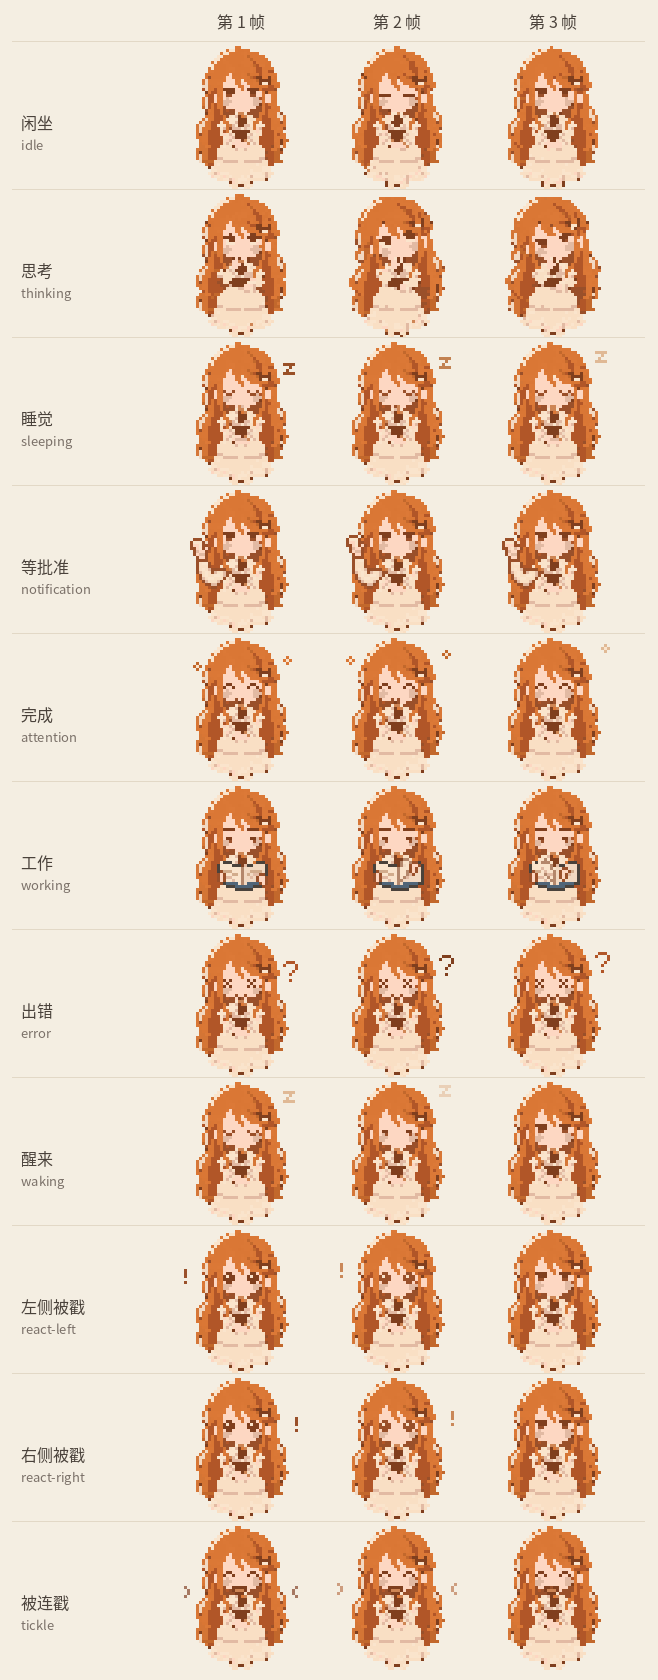
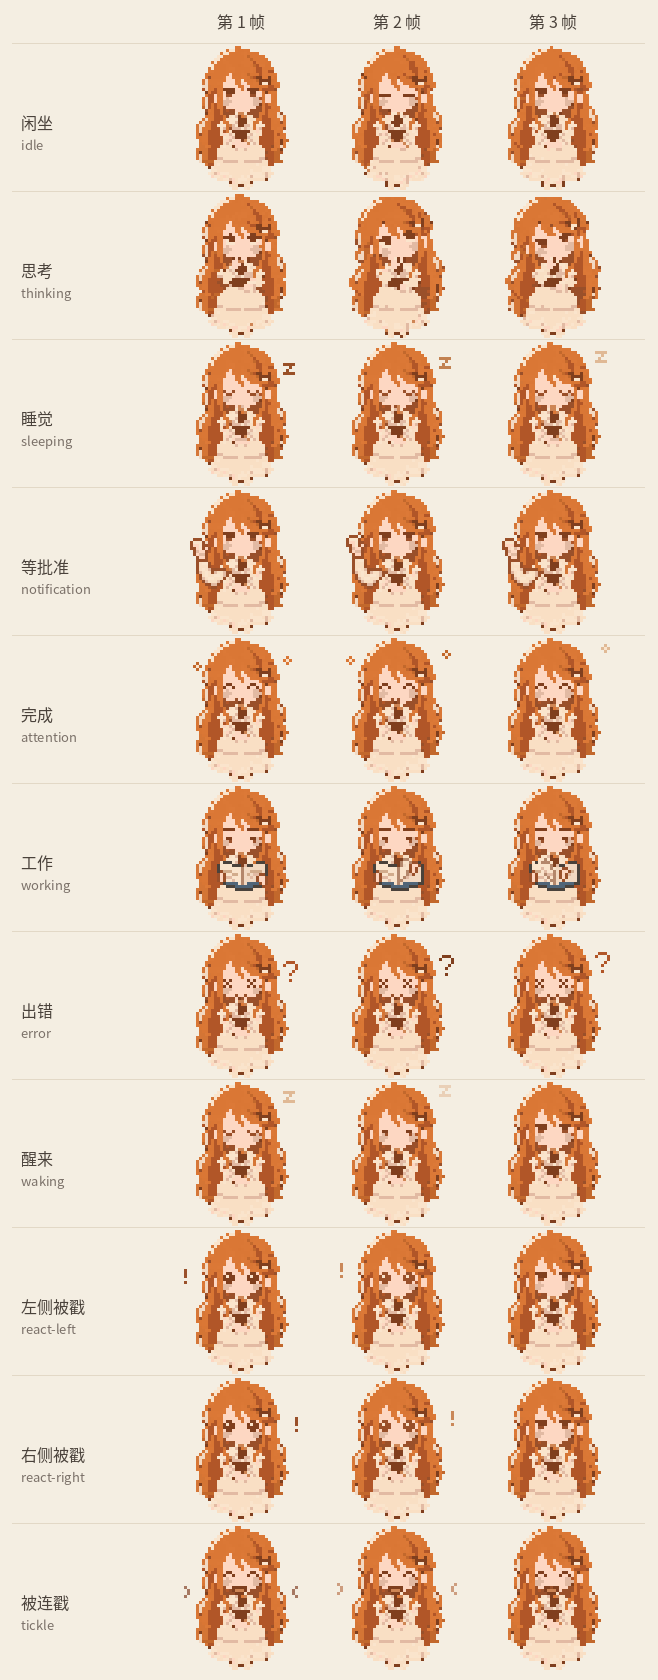
Verify the full Xiaoke preview and record approval status

diff --git a/design/incoming/pet/xiaoke/README.md b/design/incoming/pet/xiaoke/README.md
@@ -29,6 +29,19 @@
 
 `working/` 有三帧，分别停留 780／200／260 ms，循环播放。以 `idle/01.png` 为底，瞳孔往下移一格，一手捧着摊开的书，另一手把右页翻向左边。第三帧用两条细线表示纸页。[逐帧对照](working-preview.png) · [循环 GIF](working.gif)
 
-## 出错预览（待确认）
+## 出错（通过）
 
 `error/` 有三帧，分别停留 200／300／560 ms，播放一次。以 `idle/01.png` 为底，换成 × 眼和小波浪嘴，右上方冒出一个问号。[逐帧对照](error-preview.png) · [GIF](error.gif)
+
+## 可选动作与总预览（待确认）
+
+以下各三帧，播放一次。[全部状态，每行一组](all-states-preview.png)
+
+| 状态 | 每帧停留 | 动作 |
+| --- | --- | --- |
+| 醒来 | 300／230／420 ms | 闭眼到半睁，小 z 消失，最后一帧回到闲坐首帧。[GIF](waking.gif) |
+| 左侧被戳 | 170／220／240 ms | 圆眼，画面左侧冒感叹号，再回到闲坐。[GIF](react-left.gif) |
+| 右侧被戳 | 170／220／240 ms | 圆眼，画面右侧冒感叹号，再回到闲坐。[GIF](react-right.gif) |
+| 被连戳 | 250／220／350 ms | 笑眼、张嘴笑，两侧的小波纹飘开后消失。[GIF](tickle.gif) |
+
+drag 和 roam 省略。主人确认总预览后打包。

diff --git a/docs/STATUS.md b/docs/STATUS.md
@@ -57,5 +57,5 @@
 ## C7 宠物预览
 
 - 肉包已定稿并打成内置包 `App/Pets/roubao/`，共 14 个状态、42 帧，署名「lllhr94」、授权「仅限 Clio 使用」。GitHub Actions iOS 编译已通过（`shots=false`）。
-- 小克（宠物包 ID `xiaoke`）的闲坐与思考共六帧已定稿，以调成橘发的最早版本为底。睡觉已通过，按反馈把右上飘的 z 换成 4×4；等批准已通过。完成和工作已通过，工作按反馈下移瞳孔并整理第三帧书页。出错已交三帧 × 眼和问号预览与 GIF，待主人确认。
+- 小克（宠物包 ID `xiaoke`）的闲坐与思考共六帧已定稿，以调成橘发的最早版本为底。睡觉已通过，按反馈把右上飘的 z 换成 4×4；等批准已通过。完成和工作已通过，工作按反馈下移瞳孔并整理第三帧书页。出错已通过，七个必做状态齐全。醒来、左侧被戳、右侧被戳、被连戳已交单次 GIF，全部 11 组共 33 帧汇入总预览。待主人确认后打包并跑一次无截图编译。
 - C9 的小克引导插画等宠物状态定稿后再按柔和初版调整。C5 的头像接入可用已定稿的肉包验证。
